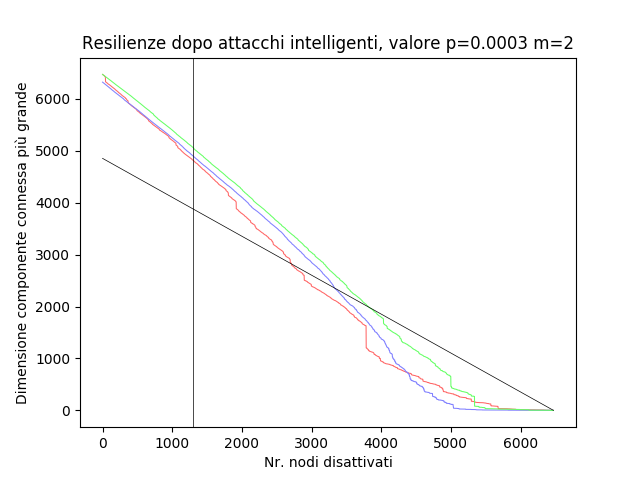
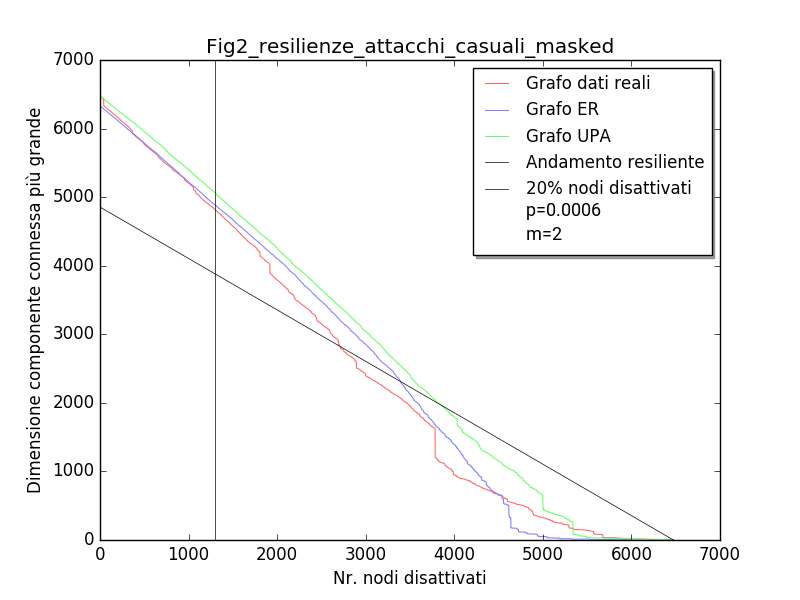
release version

diff --git a/Lab1/Graph.py b/Lab1/Graph.py
@@ -180,7 +180,7 @@ def printPlotRandom(ArrResilD, ArrResilER, ArrResilUPA, numNodes, fileName):
     fig, ax = plt.subplots()
     ax.set(xlabel="Nr. nodi disattivati",
            ylabel="Dimensione componente connessa più grande",
-           title="Resilienze dopo attacchi casuali, valore p=0.0003 m=2")
+           title=fileName)
 
     ax.plot(t, ArrResilD, "r", label="Grafo dati reali")
     ax.plot(t, ArrResilER, "b", label="Grafo ER")
@@ -198,7 +198,7 @@ def printPlotRandom_masked(ArrResilD, ArrResilER, ArrResilUPA, numNodes, fileNam
     fig, ax = plt.subplots()
     ax.set(xlabel="Nr. nodi disattivati",
            ylabel="Dimensione componente connessa più grande",
-           title="Resilienze dopo attacchi intelligenti, valore p=0.0003 m=2")
+           title=fileName)
 
     ax.plot(t, ArrResilD, "#ff6666", label="Grafo dati reali", linewidth=0.75)
     ax.plot(t, ArrResilER, "#8080ff", label="Grafo ER", linewidth=0.75)
@@ -214,8 +214,8 @@ def printPlotRandom_masked(ArrResilD, ArrResilER, ArrResilUPA, numNodes, fileNam
 
     x_threshold = numNodes * 0.2
 
-    ax.plot(y_threshold, linewidth=0.5, color="k")
-    ax.axvline(x=x_threshold, linewidth=0.5, color="k")
+    ax.plot(y_threshold, linewidth=0.5, color="k",label="Andamento resiliente")
+    ax.axvline(x=x_threshold, linewidth=0.5, color="k", label="20% nodi disattivati")
     ax.legend(loc="upper right", shadow=True, fontsize="medium")
 
 

diff --git a/Lab1/Main.py b/Lab1/Main.py
@@ -17,18 +17,18 @@ def main():
     graph_er.printG()
     graph_er_copy = copy.deepcopy(graph_er)
     arrResilienceEr = graph_er_copy.resilienceCalculator(seed)
-    print("Resilienza random", arrResilienceEr)
+   
     intSelResilienceEr = graph_er.intelligentSelectionResilienceCalculator()
-    print("Resilienza grado massimo", intSelResilienceEr)
+    
 
     print("UPA Graph:")
     graph_UPA = UPAGraph(numNodes, m)
     graph_UPA.printG()
     graph_UPA_copy = copy.deepcopy(graph_UPA)
     arrResilienceUPA = graph_UPA_copy.resilienceCalculator(seed)
-    print("Resilienza random", arrResilienceUPA)
+    
     intSelResilienceUPA = graph_UPA.intelligentSelectionResilienceCalculator()
-    print("Resilienza grado massimo", intSelResilienceUPA)
+    
 
 
     print("DataGraph:")
@@ -36,9 +36,9 @@ def main():
     data_graph.printG()
     data_graph_copy = copy.deepcopy(data_graph)
     arrResilienceDATA = data_graph_copy.resilienceCalculator(seed)
-    print("Resilienza random", arrResilienceDATA)
+    
     intSelResilienceDATA = data_graph.intelligentSelectionResilienceCalculator()
-    print("Resilienza grado massimo", intSelResilienceDATA)
+    
 
     # DOMANDA 1
     printPlotRandom(arrResilienceDATA,
